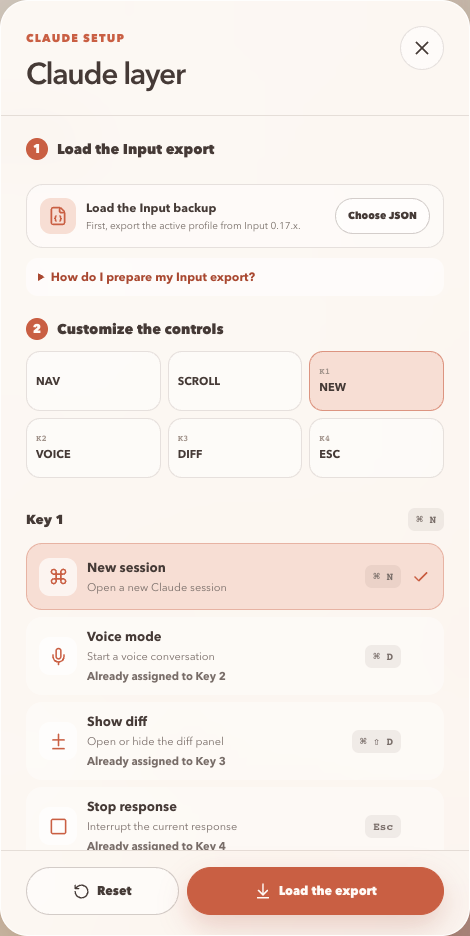
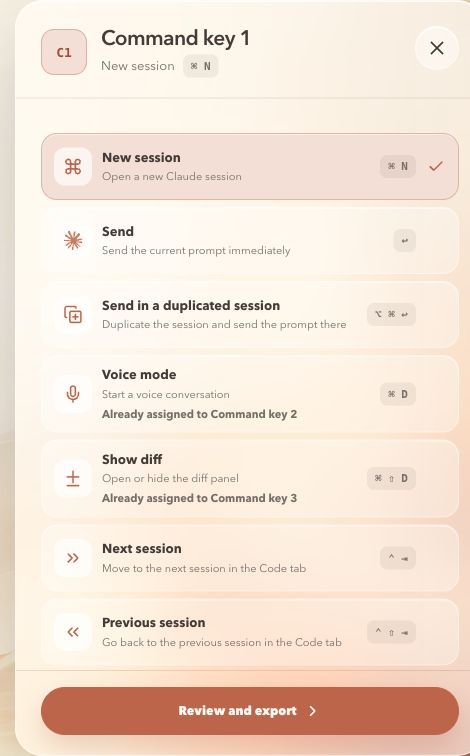
Refresh README screenshots for latest interface

diff --git a/README.md b/README.md
@@ -22,6 +22,11 @@
 - the configurator now includes a calibrated effort wheel, eight-direction
   joystick actions, AppSense controls, and a mobile-friendly layout.
 
+| Live Claude Code session colours | Calibrated effort wheel |
+| :---: | :---: |
+| ![Six Agent keys showing the Claude Code session state colour legend](docs/assets/readme/agent-key-colours.png) | ![Codex Micro wheel configured to change the Claude effort level](docs/assets/readme/effort-wheel.png) |
+| See which session needs you, is working, has finished, or can be resumed. | Move one Claude effort level up or down with each wheel notch. |
+
 ## Map Claude to your fingertips
 
 This project turns a real Work Louder Input profile into a dedicated
@@ -29,12 +34,12 @@ This project turns a real Work Louder Input profile into a dedicated
 Codex layer.
 
 **Current mapping:** `K1 ⌘N` new session · `K2 ⌘D` voice · `K3 ⌘⇧D` diff ·
-`K4 Esc` stop · dial to scroll · joystick to navigate.
+`K4 Esc` stop · dial to adjust Claude effort · joystick to navigate.
 
-| Guided mapping | Safety review before export |
+| Expanded action catalog | AppSense safety review |
 | :---: | :---: |
-| ![Three-step Claude mapping wizard](docs/assets/readme/mapping-wizard.png) | ![Native layer and AppSense preservation report](docs/assets/readme/safety-review.png) |
-| Pick a control, choose an action, and keep the mapping readable. | Verify preservation rules and the SHA-256 fingerprint before downloading. |
+| ![Claude action catalog with next and previous session shortcuts](docs/assets/readme/mapping-wizard.png) | ![Native layer and AppSense preservation report](docs/assets/readme/safety-review.png) |
+| Add session navigation, voice, diff, search, window actions, or a safe custom shortcut. | Verify the native layer, AppSense link, other layers, and SHA-256 fingerprint before downloading. |
 
 > [!IMPORTANT]
 > This is an actively developed community project. The local configurator and
